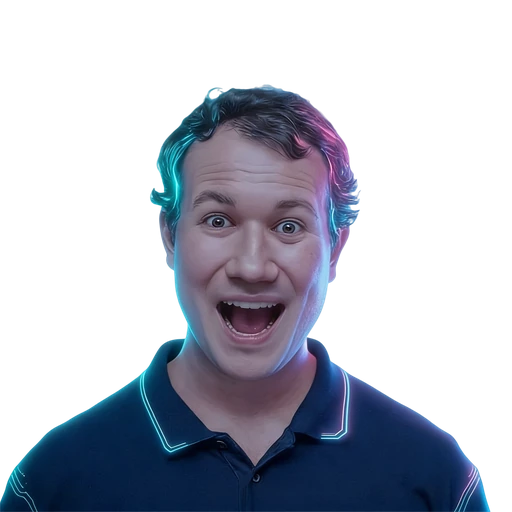
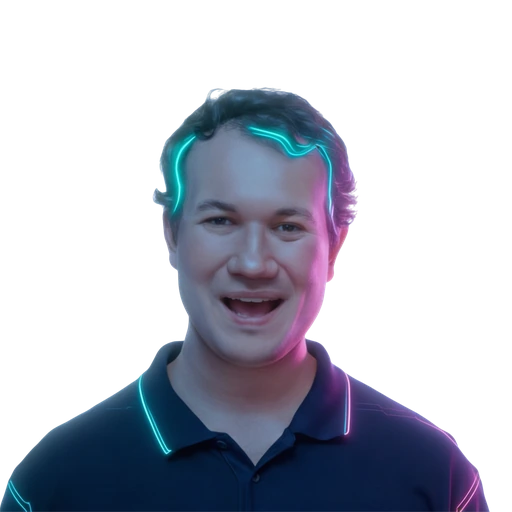
v3.0: aggiungi skin Espò 3.0 — cyber refresh, gratuita, colori allineati

Changed region(s): [[0.0, 0.1562, 0.9688, 1.0]]

diff --git a/src/ui/mobile-fixes/score-header.css b/src/ui/mobile-fixes/score-header.css
@@ -145,6 +145,40 @@
   @supports (-webkit-background-clip: text) or (background-clip: text) {
     html body .column-header-center #score-display { color: transparent; }
   }
+
+  /* ---------------- Wallet: moltiplicatore / token / q-bit su UNA riga
+     SOTTO il punteggio, invece che stretti ai lati (illeggibili su mobile).
+     NB: .header-main-score era position:absolute (hack di centratura desktop:
+     height:80% + top:50% + transform), quindi fuori dal flusso → i pannelli
+     non andavano mai a capo. Lo rimetto nel flusso e uso una griglia esplicita:
+       riga 1: punteggio (full width)
+       riga 2: [moltiplicatore] [token + q-bit]
+     I pannelli laterali restano gestiti da updateHUD() (visibili solo dopo
+     prestige/quantum); se nascosti, resta solo il punteggio. ---------------- */
+  html body .column-header-center {
+    display: grid;
+    grid-template-columns: 1fr 1fr;
+    grid-template-areas:
+      "score score"
+      "left  right";
+    align-items: center;
+    gap: 6px 8px;
+    height: auto;
+  }
+
+  html body .column-header-center .header-main-score {
+    grid-area: score;
+    position: static;   /* annulla l'absolute desktop */
+    height: auto;
+    top: auto;
+    left: auto;
+    transform: none;
+    max-width: 100%;    /* annulla calc(100% - 232px) */
+    text-align: center;
+  }
+
+  html body #header-left-panel  { grid-area: left;  justify-self: end; }
+  html body #header-right-panel { grid-area: right; justify-self: start; }
 }
 
 @media (max-width: 768px) and (prefers-reduced-motion: reduce) {

diff --git a/src/ui/mobile-fixes/achievements-modal.css b/src/ui/mobile-fixes/achievements-modal.css
@@ -43,9 +43,9 @@
     right: 10px;
     bottom: auto;
     left: auto;
-    width: 40px;
-    height: 40px;
-    min-height: 40px;
+    width: 44px;  /* coerente con gli altri modali (touch target 44px) */
+    height: 44px;
+    min-height: 44px;
     background: rgba(255, 255, 255, 0.08);
     border: 1px solid rgba(255, 255, 255, 0.15);
     border-radius: 50%;
@@ -131,6 +131,12 @@
      ------------------------------------------------------------------- */
   html body #achievements-modal #achievement-list .trophy-row {
     min-height: 64px;
+    /* #achievement-list è un flex-column: senza flex-shrink:0 l'algoritmo flex
+       comprime le righe fino a min-height (64px) e l'azione — che la griglia
+       manda su una seconda riga (grid-column 1/-1) — deborda sotto, finendo
+       sopra al titolo della riga successiva. Con shrink:0 la riga cresce fino
+       a contenere icona + contenuto + azione. */
+    flex-shrink: 0;
     padding: 10px 12px;
     gap: 10px;
     display: grid;
@@ -164,6 +170,8 @@
      ------------------------------------------------------------------- */
   html body #achievements-modal #achievement-list .trophy-action {
     grid-column: 1 / -1; /* full width sotto il titolo */
+    width: 100%;        /* override del width:120px desktop -> barra/bottone pieni */
+    min-width: 0;
     margin-top: 4px;
   }
 

diff --git a/src/ui/mobile-fixes/modal-close.css b/src/ui/mobile-fixes/modal-close.css
@@ -11,7 +11,7 @@
    ===================================================================== */
 
 @media (max-width: 768px) {
-  html body .modal-content > .modal-close-btn {
+  html body .modal-content .modal-close-btn {
     /* override mobile.css:1037 */
     position: absolute;
     top: 10px;
@@ -34,7 +34,7 @@
                 transform 120ms cubic-bezier(0.34, 1.56, 0.64, 1);
   }
 
-  html body .modal-content > .modal-close-btn::after {
+  html body .modal-content .modal-close-btn::after {
     content: '\00d7'; /* × */
     font-family: system-ui, -apple-system, sans-serif;
     font-size: 1.6rem;
@@ -43,14 +43,14 @@
     line-height: 1;
   }
 
-  html body .modal-content > .modal-close-btn:hover,
-  html body .modal-content > .modal-close-btn:focus-visible {
+  html body .modal-content .modal-close-btn:hover,
+  html body .modal-content .modal-close-btn:focus-visible {
     background: rgba(231, 76, 60, 0.55);
     transform: scale(1.05);
     outline: none;
   }
 
-  html body .modal-content > .modal-close-btn:active {
+  html body .modal-content .modal-close-btn:active {
     transform: scale(0.95);
   }
 
@@ -62,7 +62,7 @@
 }
 
 @media (prefers-reduced-motion: reduce) {
-  html body .modal-content > .modal-close-btn {
+  html body .modal-content .modal-close-btn {
     transition: none !important;
   }
 }
